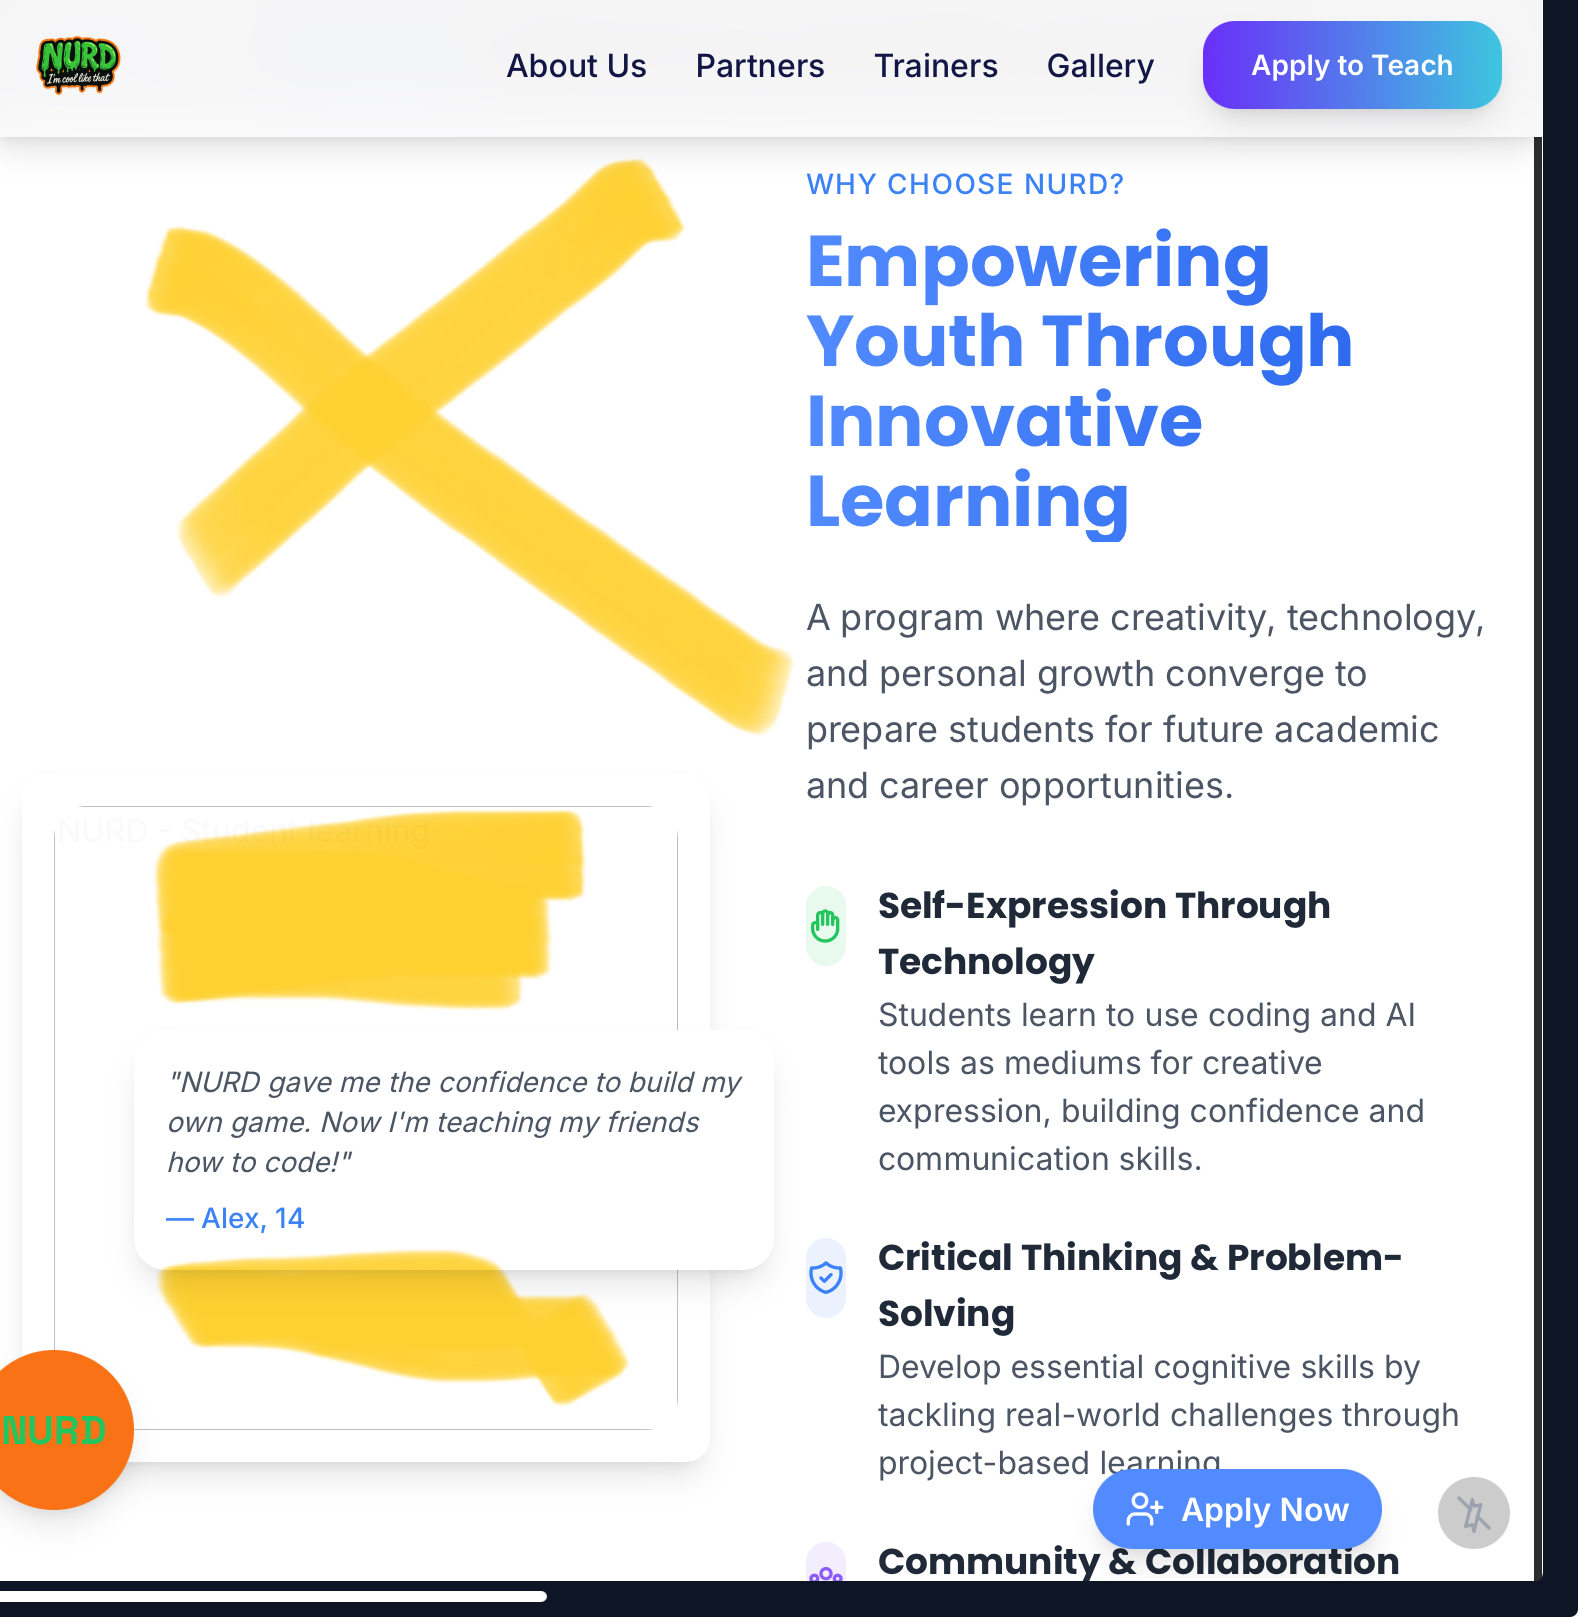
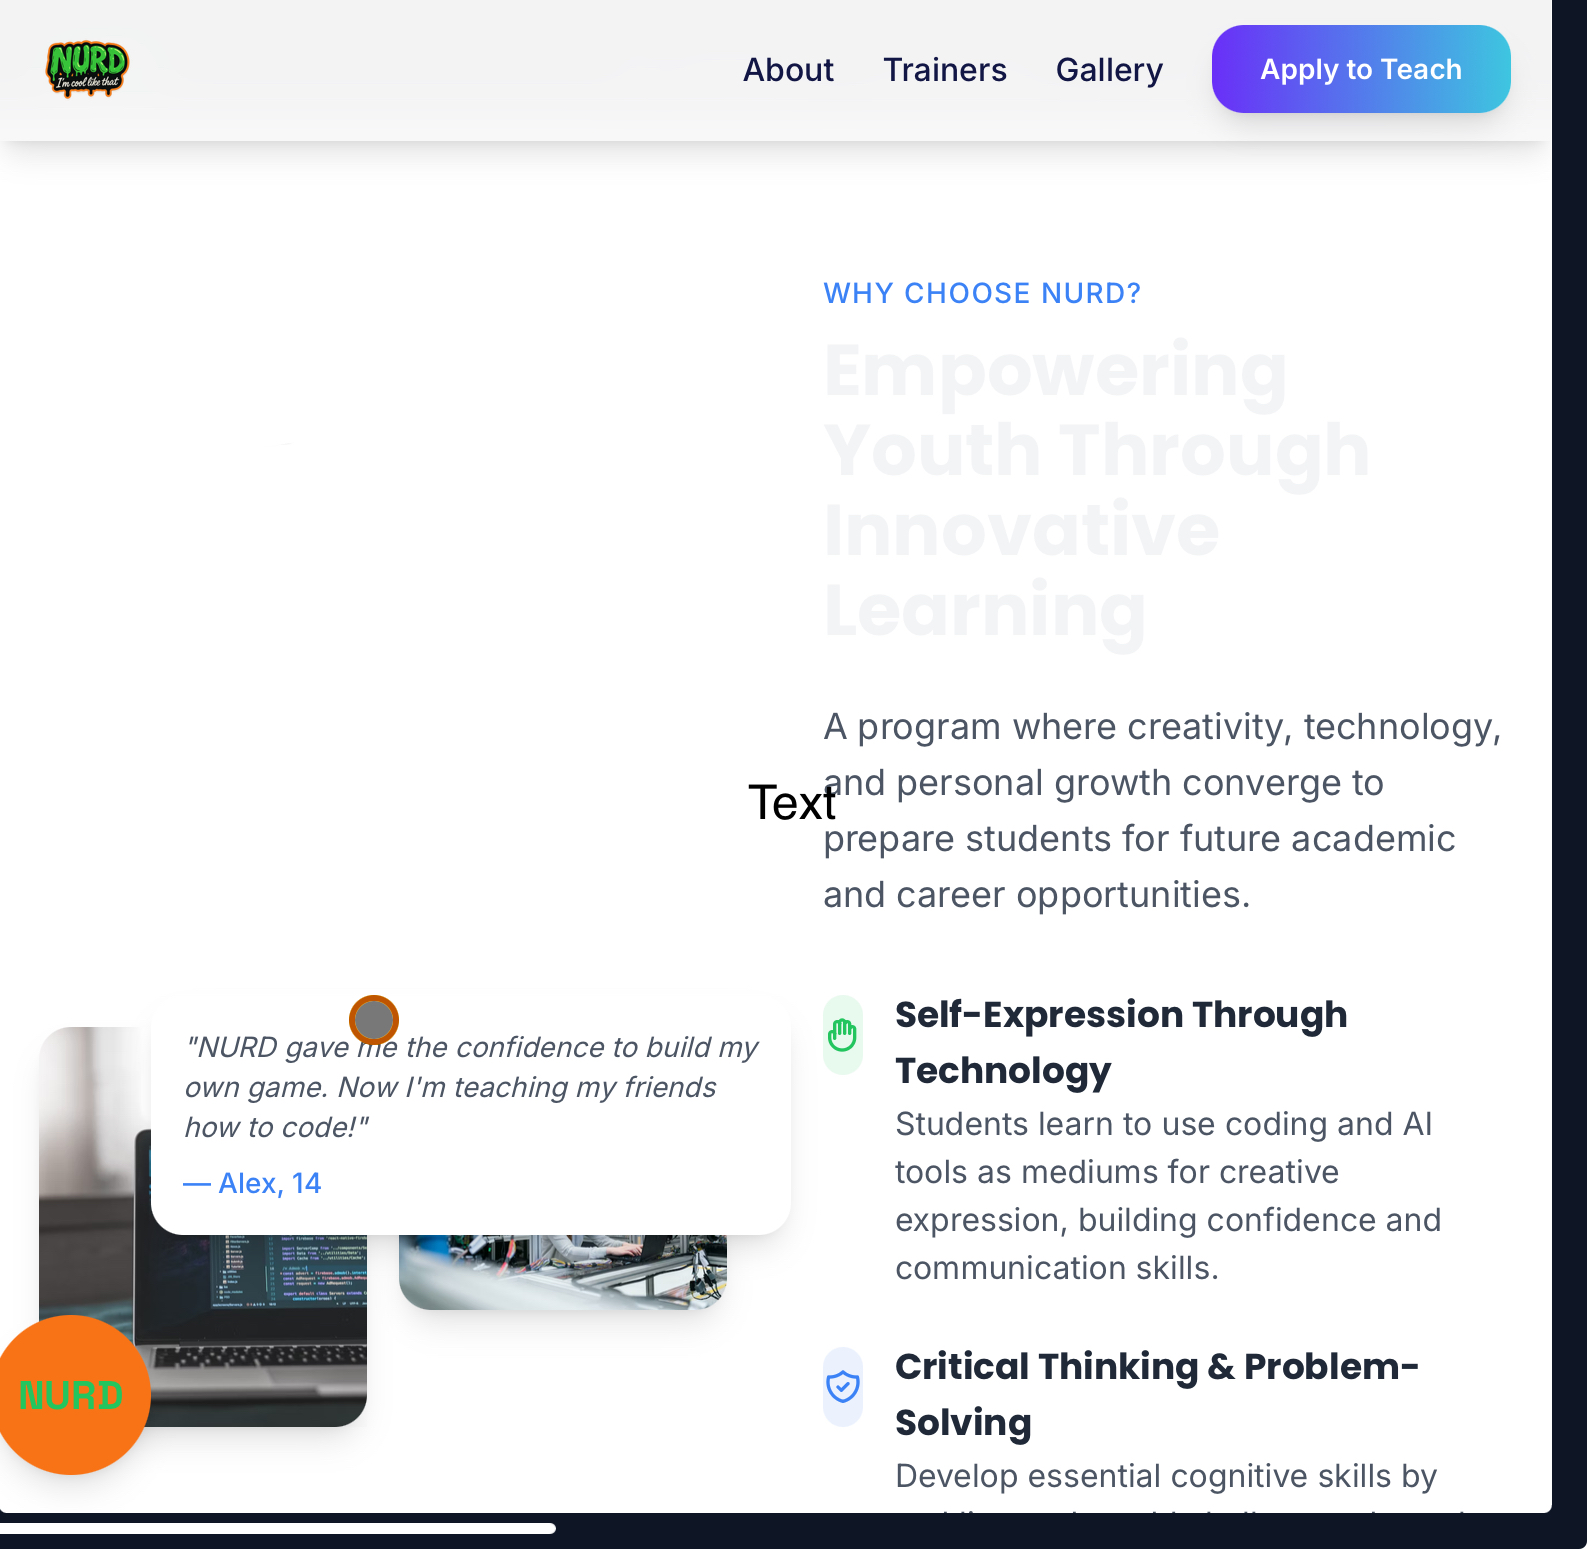
Updated the website's images
Updated images in the "Why Choose NURD?" section to improve visual appeal and address user feedback, including reducing whitespace and replacing an image with a new one.  The changes affect `client/src/components/sections/why-choose-section.tsx` and added `/assets/teen-student.jpeg` and `/assets/achievemor-badge.png` to `public/assets`.

Replit-Commit-Author: Agent
Replit-Commit-Session-Id: ef0e1a2b-82a4-432e-bba9-cf12cbe9a1df
Replit-Commit-Screenshot-Url: https://storage.googleapis.com/screenshot-production-us-central1/dd3aae49-9437-42d9-a06d-cc03d19331fc/4341b5d7-8d6e-4496-8eda-0ef21e9a8ce3.jpg

diff --git a/client/src/components/sections/why-choose-section.tsx b/client/src/components/sections/why-choose-section.tsx
@@ -1,26 +1,18 @@
 import React from 'react';
-import achievemorBadgeImg from '@assets/achievemor-badge.png';
 
 const WhyChooseSection: React.FC = () => {
   return (
-    <section className="py-20 bg-white">
+    <section className="py-10 bg-white">
       <div className="container mx-auto px-4">
-        <div className="flex flex-col md:flex-row gap-12 items-center">
+        <div className="flex flex-col md:flex-row gap-8 items-center">
           <div className="md:w-1/2">
             <div className="relative">
               <div className="bg-white p-4 rounded-xl shadow-lg relative overflow-hidden">
                 <img 
-                  src="/nurd-laptop-student.jpeg" 
-                  alt="NURD - Student learning" 
-                  className="w-full h-auto rounded-lg"
+                  src="/assets/teen-student.jpeg" 
+                  alt="Teen student learning" 
+                  className="w-full h-auto rounded-lg object-cover"
                 />
-                <div className="absolute inset-0 rounded-lg flex items-center justify-center bg-gradient-to-r from-black/40 to-black/10">
-                  <img
-                    src="@assets/teen-student.jpeg"
-                    alt="Teen student learning"
-                    className="w-3/4 h-3/4 object-cover rounded-lg shadow-2xl"
-                  />
-                </div>
               </div>
               
               {/* Testimonial bubble */}
@@ -35,7 +27,7 @@ const WhyChooseSection: React.FC = () => {
               <div className="absolute -left-6 -bottom-10 w-32 h-32 z-10">
                 <div className="relative w-full h-full flex items-center justify-center">
                   <img 
-                    src="@assets/nurd-drip-logo.png" 
+                    src="/assets/nurd-drip-logo.png" 
                     alt="NURD Logo" 
                     className="w-full h-full object-contain drop-shadow-xl"
                   />
@@ -45,7 +37,7 @@ const WhyChooseSection: React.FC = () => {
               {/* ACHIEVEMOR Badge overlay */}
               <div className="absolute -right-4 -top-4 w-28 h-28">
                 <img 
-                  src={achievemorBadgeImg} 
+                  src="/assets/achievemor-badge.png" 
                   alt="ACHIEVEMOR Badge" 
                   className="w-full h-full object-contain shadow-lg transform hover:scale-105 transition-all duration-300"
                 />
@@ -56,11 +48,11 @@ const WhyChooseSection: React.FC = () => {
           <div className="md:w-1/2">
             <span className="text-[#3B82F6] font-medium tracking-wider text-sm uppercase">Why Choose NURD?</span>
             <h2 className="section-title mt-2 bg-clip-text text-transparent bg-gradient-to-r from-primary to-blue-600">Empowering Youth Through Innovative Learning</h2>
-            <p className="text-lg text-gray-600 mb-8">
+            <p className="text-lg text-gray-600 mb-4">
               A program where creativity, technology, and personal growth converge to prepare students for future academic and career opportunities.
             </p>
             
-            <div className="space-y-6">
+            <div className="space-y-4">
               <div className="flex items-start">
                 <div className="w-10 h-10 rounded-full bg-[#22C55E]/10 flex items-center justify-center mt-1 mr-4">
                   <svg xmlns="http://www.w3.org/2000/svg" className="h-5 w-5 text-[#22C55E]" fill="none" viewBox="0 0 24 24" stroke="currentColor">
